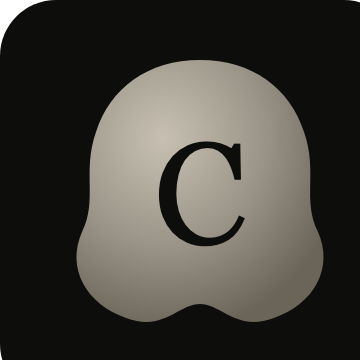
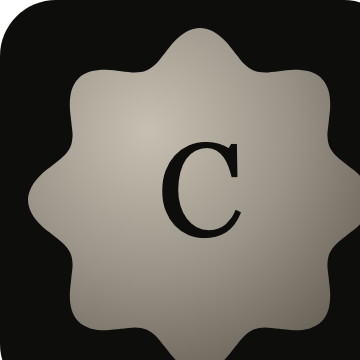
Rebuild the seal mark as a precise geometric shape
The previous outline was a hand-drawn bezier blob, asymmetric and
sloppy. Replaced with a mathematically generated scalloped medallion
(polar function, 8 even lobes, Catmull-Rom smoothing) -- deliberate and
symmetric instead of freehand. Propagated to every asset: the live
Seal.tsx component, all public/brand/ SVGs, the favicon, and the OG
image (both regenerated).

diff --git a/src/components/ui/Seal.tsx b/src/components/ui/Seal.tsx
@@ -40,41 +40,23 @@ export function Seal() {
             </radialGradient>
           </defs>
           <circle
-            className="origin-[100px_100px] motion-safe:animate-[spin_90s_linear_infinite]"
+            className="origin-[100px_100px] motion-safe:animate-[spin_120s_linear_infinite]"
             cx="100"
             cy="100"
-            r="94"
+            r="96"
             fill="none"
             stroke="var(--metal)"
-            strokeWidth="0.6"
-            opacity="0.4"
-          />
-          <circle
-            className="origin-[100px_100px] motion-safe:animate-[spin_70s_linear_infinite_reverse]"
-            cx="100"
-            cy="100"
-            r="80"
-            fill="none"
-            stroke="var(--metal)"
-            strokeWidth="0.6"
-            opacity="0.35"
+            strokeWidth="0.5"
+            opacity="0.3"
           />
           <path
             fill="url(#sealGradient)"
             style={{ filter: "drop-shadow(0 24px 44px rgba(0,0,0,0.45))" }}
-            d="M100 18
-              C 130 18 152 34 160 60
-              C 168 84 158 100 168 118
-              C 178 138 166 160 142 168
-              C 120 176 112 160 100 160
-              C 88 160 80 176 58 168
-              C 34 160 22 138 32 118
-              C 42 100 32 84 40 60
-              C 48 34 70 18 100 18 Z"
+            d="M 186.0 100.0 C 186.0 102.2, 185.3 104.5, 184.2 106.6 C 183.1 108.7, 181.3 110.8, 179.5 112.6 C 177.7 114.4, 175.4 116.0, 173.4 117.6 C 171.5 119.2, 169.5 120.6, 168.0 122.1 C 166.6 123.6, 165.4 125.1, 164.7 126.8 C 164.0 128.5, 163.8 130.4, 163.7 132.5 C 163.7 134.6, 164.2 137.0, 164.4 139.5 C 164.6 141.9, 165.1 144.7, 165.1 147.3 C 165.1 149.9, 164.9 152.6, 164.2 154.9 C 163.5 157.1, 162.4 159.2, 160.8 160.8 C 159.2 162.4, 157.1 163.5, 154.9 164.2 C 152.6 164.9, 149.9 165.1, 147.3 165.1 C 144.7 165.1, 141.9 164.6, 139.5 164.4 C 137.0 164.2, 134.6 163.7, 132.5 163.7 C 130.4 163.8, 128.5 164.0, 126.8 164.7 C 125.1 165.4, 123.6 166.6, 122.1 168.0 C 120.6 169.5, 119.2 171.5, 117.6 173.4 C 116.0 175.4, 114.4 177.7, 112.6 179.5 C 110.8 181.3, 108.7 183.1, 106.6 184.2 C 104.5 185.3, 102.2 186.0, 100.0 186.0 C 97.8 186.0, 95.5 185.3, 93.4 184.2 C 91.3 183.1, 89.2 181.3, 87.4 179.5 C 85.6 177.7, 84.0 175.4, 82.4 173.4 C 80.8 171.5, 79.4 169.5, 77.9 168.0 C 76.4 166.6, 74.9 165.4, 73.2 164.7 C 71.5 164.0, 69.6 163.8, 67.5 163.7 C 65.4 163.7, 63.0 164.2, 60.5 164.4 C 58.1 164.6, 55.3 165.1, 52.7 165.1 C 50.1 165.1, 47.4 164.9, 45.1 164.2 C 42.9 163.5, 40.8 162.4, 39.2 160.8 C 37.6 159.2, 36.5 157.1, 35.8 154.9 C 35.1 152.6, 34.9 149.9, 34.9 147.3 C 34.9 144.7, 35.4 141.9, 35.6 139.5 C 35.8 137.0, 36.3 134.6, 36.3 132.5 C 36.2 130.4, 36.0 128.5, 35.3 126.8 C 34.6 125.1, 33.4 123.6, 32.0 122.1 C 30.5 120.6, 28.5 119.2, 26.6 117.6 C 24.6 116.0, 22.3 114.4, 20.5 112.6 C 18.7 110.8, 16.9 108.7, 15.8 106.6 C 14.7 104.5, 14.0 102.2, 14.0 100.0 C 14.0 97.8, 14.7 95.5, 15.8 93.4 C 16.9 91.3, 18.7 89.2, 20.5 87.4 C 22.3 85.6, 24.6 84.0, 26.6 82.4 C 28.5 80.8, 30.5 79.4, 32.0 77.9 C 33.4 76.4, 34.6 74.9, 35.3 73.2 C 36.0 71.5, 36.2 69.6, 36.3 67.5 C 36.3 65.4, 35.8 63.0, 35.6 60.5 C 35.4 58.1, 34.9 55.3, 34.9 52.7 C 34.9 50.1, 35.1 47.4, 35.8 45.1 C 36.5 42.9, 37.6 40.8, 39.2 39.2 C 40.8 37.6, 42.9 36.5, 45.1 35.8 C 47.4 35.1, 50.1 34.9, 52.7 34.9 C 55.3 34.9, 58.1 35.4, 60.5 35.6 C 63.0 35.8, 65.4 36.3, 67.5 36.3 C 69.6 36.2, 71.5 36.0, 73.2 35.3 C 74.9 34.6, 76.4 33.4, 77.9 32.0 C 79.4 30.5, 80.8 28.5, 82.4 26.6 C 84.0 24.6, 85.6 22.3, 87.4 20.5 C 89.2 18.7, 91.3 16.9, 93.4 15.8 C 95.5 14.7, 97.8 14.0, 100.0 14.0 C 102.2 14.0, 104.5 14.7, 106.6 15.8 C 108.7 16.9, 110.8 18.7, 112.6 20.5 C 114.4 22.3, 116.0 24.6, 117.6 26.6 C 119.2 28.5, 120.6 30.5, 122.1 32.0 C 123.6 33.4, 125.1 34.6, 126.8 35.3 C 128.5 36.0, 130.4 36.2, 132.5 36.3 C 134.6 36.3, 137.0 35.8, 139.5 35.6 C 141.9 35.4, 144.7 34.9, 147.3 34.9 C 149.9 34.9, 152.6 35.1, 154.9 35.8 C 157.1 36.5, 159.2 37.6, 160.8 39.2 C 162.4 40.8, 163.5 42.9, 164.2 45.1 C 164.9 47.4, 165.1 50.1, 165.1 52.7 C 165.1 55.3, 164.6 58.1, 164.4 60.5 C 164.2 63.0, 163.7 65.4, 163.7 67.5 C 163.8 69.6, 164.0 71.5, 164.7 73.2 C 165.4 74.9, 166.6 76.4, 168.0 77.9 C 169.5 79.4, 171.5 80.8, 173.4 82.4 C 175.4 84.0, 177.7 85.6, 179.5 87.4 C 181.3 89.2, 183.1 91.3, 184.2 93.4 C 185.3 95.5, 186.0 97.8, 186.0 100.0 Z"
           />
           <text
             x="100"
-            y="116"
+            y="118"
             fontSize="64"
             textAnchor="middle"
             fill="var(--bg)"
